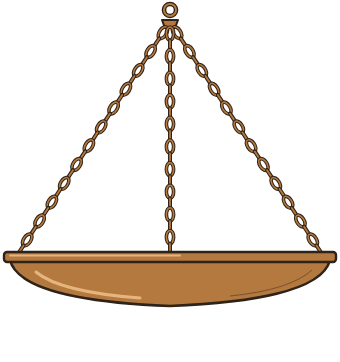
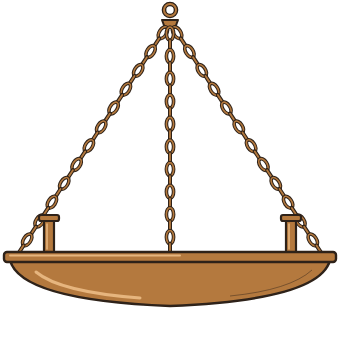
256 补：求饶天平左盘堆放上的金币，托盘坐在两根矮柱上（v4.55）
Claude-Session: https://claude.ai/code/session_018nu316eEhzvyxZFyrEBn2i

Changed region(s): [[0.8235, 0.5773, 0.8824, 0.6989], [0.1176, 0.5773, 0.1765, 0.6989], [0.4412, 0.8204, 0.4706, 0.8508]]

diff --git a/docs/architecture.md b/docs/architecture.md
@@ -1,6 +1,6 @@
 # 背包搜打撤 — 架构设计文档
 
-> 版本：v4.54 ｜ 引擎：Godot 4.7 (Forward+ / Jolt) ｜ 状态：M1～M6、069 进阶难度与猎手、第 7 阶段侵蚀都已落地，第 8 阶段内容扩充进行中（现状见 [status.md](status.md)，变更记录见 16 节）
+> 版本：v4.55 ｜ 引擎：Godot 4.7 (Forward+ / Jolt) ｜ 状态：M1～M6、069 进阶难度与猎手、第 7 阶段侵蚀都已落地，第 8 阶段内容扩充进行中（现状见 [status.md](status.md)，变更记录见 16 节）
 
 ## 0. 游戏概述
 
@@ -4480,6 +4480,7 @@ res://
 | v4.37 | 2026-10-24 | **基地七个页签加平墨图标**（作者 14:49 选乙；UI替换美术切图）：仓库 / 出售 / 集市 / 铁匠铺 / 科技 / 图鉴 / 成就页签字左边各一枚 36×36 墨色剪影（`assets/ui/home/tabs/tab_<页签>.png`，没图只写字）；图字间隔 6 走 `_home_buttons` 主题变体；七个页签一样宽（取 176 与最宽者的较大值，英文约 190） |
 | v4.53 | 2026-10-26 | **256 补：战前屏铜面板不超出画面**（架构 17:05）：空棋盘那句提示（`pre.no_attacker`）与开不了的原因不再另起一行 —— 写在「开战」旗右边的一张便条上（`PANEL_SUMMARY_NOTE`，`PrebattleScreen._why_note`，宽 200，空着不显示；222 照旧不挡开战）；对手六行棋盘时也放得下：两排之间 14 → 4（旗图上沿自带 10 的透明边）。面板高 ≤ 1000 − 16 − 顶端栏（222 测试量这一屏） |
 | v4.54 | 2026-10-26 | **242 补：兵刃变体木桩**（架构 18:16；只加木桩与矩阵列，不动玩法）：全库带 `stamina_cost` 修饰的只有操练 / 军功牌 / 日神 / 熔炉，五路木桩与敌人池都不带，量不到 v4.52「写死耐力消耗吃打折」的偏移。`ArchetypeBuilder.build_variants` 加兵刃一组四路（`group = "blade"`，按 `melee` 流派抽、同种子同一份道具）：`blade` 对照、`blade+drill`（马库斯被动的按件修饰）、`blade+drill+phalera`（金阶军功牌钉在 (3, 2)，包先盖住它的圈、武器先往圈里摆）、`blade+sun`（日神 3 阶以内的开战轴：灵巧 5 层）。木桩格式多两键 `scoped`（`[{tags, mods}]`）与 `axes`（{轴 → 层}），`CalibrationRecorder.compile` 并进 `CompileInput`；`CalibrationRecorder.layout_of` = `RunState.layout_of` + 随身之物（带钉的状态与军功，排在包后面），快照也用它（马库斯的真实快照以前丢了军功牌）。`BalanceMatrix`：极差表不算有 `group` 的路，另出表五「兵刃变体」（变体减对照的胜率差，百分点）。`tools/build_archetypes.gd -- --variants` 只重造这四路，五路那 60 份原文照留（道具库改过，全量重造会换掉 55 份） |
+| v4.55 | 2026-10-26 | **256 补：求饶天平左盘也看得见钱**（UI 替换美术 10-26，起因是游戏测试 v4.53：往左盘放钱只见梁动）：托盘整体上抬 38（`tray_rect` [20, 52, 320, 220]，大小与格子不变），坐在左盘层新画的两根矮铜柱上；柱间按 `ransom_layout.json` 新的 `coin_pile`（cols / base_y / step / full / max / order）堆金币片 `ransom/ransom_coin`（36 × 9）。`BalanceScale.coins`（`RansomScreen._refresh` 设）→ `pile_count()` = ceil(22 × 金币 ÷ 开价)，放了钱至少 1 枚、封顶 24；刚好够时 3 / 4 / 4 / 4 / 4 / 3 共 22 枚，和右盘那摞一样多；先垒中间两摞。托盘上的道具不算进这摞。`coin_rects()` 给测试量（托盘底边在金币顶上面）；后备版式同步 |
 | v4.52 | 2026-10-26 | **256 三个起始角色定稿**（作者 15:48，报告 256 §8.13，表见 [characters.md](characters.md)）：**马库斯** 55 / 65 / 5、体力 5、8 × 6 / 48；删 `merit` / `assault`；随身军功牌 `legion_phalera`（1×1，开局 (3, 2)，内部标签 `signature`：`ItemDatabase.ids()` 与赐福都不收；`GrowthProfile.fuel = honor`，`HonorModule` 听 `battle_finished` 打赢记军功 普通 1 / 精英 3 / 核心 5；`GrowthStage.grant_cells / grant_mods` 改写邻接，铜银 4 / 金 8 / 鎏金桂冠 12 格，武器伤害与急速 +、耐力消耗 − 5/10/15/20%；角标「军功 N」+ 悬浮窗逐阶；一局一清）。**可挪的随身之物**：`FixedItem.movable` → `ItemInstance.set_pinned(on, movable)`（`pin_moves`），`is_anchored()` = 钉死；`GridInventory.keeps(uid)` = 锁住或随身（`InventoryService.move` 跨容器 / `transfer_auto` / 商店卖 / 快捷移动都看它），可以压在包上（`holds_pinned` 的包算锁住，提示 `notice.pin_bag`），随身之物不被顶开；拖出棋盘提示 `notice.pin_stays`；选人页 `shape_board(..., allow_moves = false)` 钉死。**操练**改一局被动：新效果 `tag_mods`（`RunContext.scoped` → `compile_player` 的 `CompileInput.scoped`）给武器 `stamina_cost` −20%，`tag_weight_mult`（`RunContext.weight_pct`）武器重量 −20%（`ItemWeight.total_scaled` / `of_in_scaled`：按件打折、求和后取整；`carry_weight`、开局屏负重、悬浮窗脚注都用它）。**写死的耐力消耗也吃打折**：`ResourceCost` 没有 `amount_stat` 时按 `CombatantRuntime.item_cost_factor`（这件 `stamina_cost` 的乘算 × 灵巧 / 笨拙轴）付，`stamina_per_use` / `StaminaEstimate` 同一套（之前这类武器的灵巧轴、军功牌减耗都不生效）。**布鲁图斯** 85 / 65 / 4、体力 8、9 × 6 / 64，没有技能（删 `wild_born` / `hardy` / `second_wind`；`hardy_guard` 状态留着，熔炉在用）。**安德烈乌斯** 45 / 55 / 4、体力 3、7 × 6 / 48；删 `familiar_paths` / `slippery` / `slip`；**偷袭** `ambush`（`AssaultSkill`，3 次，`RunSkill.rest_recharge` 休息点 +1 不超上限，`show_prebattle` → 战前屏四态平石键「偷袭 ×N」）；**求饶** `ransom`（`RunContext.ransom_mult` 3）：有对手的扣体力都给——普通 / 精英 / 猎手打输，逃跑失败（`NodeEvents.flee_roll` 带上 node / foe 先问 `_offer_ransom`，猎手报自己的战败原因）；核心点、搜索遭遇打输不给；逃跑失败又打输并成一次天平（`pending_ransom.more`，开价相加，不求饶两笔照扣：逃跑那笔原数、打输那笔吃 `loss_discount`）；回放后弹 `RANSOM` 屏：`BalanceScale` 按美术定稿四层图 + `ransom/ransom_layout.json` 摆（梁倾角 ±8°、盘挂钩、左盘上 6 × 3 托盘（格子按托盘那块地缩）、右盘开价牌、石台上金币步进 ±10 与成交 / 不求饶两把平石键）；道具按局内出售价计重；待开价进存档。`NodeEvents.offer_ransom` 只由 GameFlow 打开。**三人共同**：删 `starting_funds`（角色字段、json、导入检查）、`starting_funds_bonus` 效果、`EconomyRules.starting_balance`；「回气」→「耐力回复」（UI、轴名、词表）。美术定稿接上：军功牌五阶、偷袭键四态、偷袭 / 求饶技能图标、天平四层；删五枚旧技能图标。测试 `tests/run/test_characters_256.gd` |
 | v4.51 | 2026-10-26 | **255 补充三：初始三人的短板撤掉**（作者 13:59「我并不认为给每个角色设计短板是必须的……短板是用于改变游玩决策的设定，不要盲目的添加」）：马库斯 `unschooled`、安德烈乌斯 `thin_build`、布鲁图斯 `short_wind` 从角色数据删掉，三个状态定义（json + tres）与效果栏图标一并删（状态不进存档，不用改名表；内容快照不变）。`CharacterDef.flaw` 改选填：导入器不再要求，没有短板的角色卡上不出那一行；有短板的照旧排在技能之后、编进战斗规则。三种打折构件（`heal_cut_tags`、按比例的护甲上限、`regen_cut_below`）留着，测试改用内联状态。美术 13:57 那三枚图标不接（文件留在美术目录） |
 | v4.50 | 2026-10-26 | **255 补充二：开局第二页改两栏**（报告 255 §10.4，架构设计 12:45 定甲）：中栏拆掉，棋盘板 676 + 栏距 36 + 仓库框 764，右沿 1512（≤ 1564）。包架挪进棋盘板、棋盘正下方横排九格一行（`SetupScreen.RACK_COLUMNS`）；带入现金便条钉在仓库木框底部靠右（`SIZE_SHRINK_END`，仓库格子高照 180 补二按剩余高算）；「地上」改成仓库页签列里的一页：`WarehousePages.add_extra / set_extra_tab / show_extra / on_extra`（页签排在已有的页后面、没解锁的页前面，拖着东西停在它上面也切过去，格子那块换成 `GroundLayer`、一样大），只在地上有东西时出现，刚进第二页有东西就先翻到这页；`_allow_drop` 不变。`TextFit` 按最宽那行量多行字。测试 `test_character_select_255.frame_kit_page`（右沿、底沿、七格 / 九格换人两块板不动），`test_character_setup` 地上那段改查页签。另修游戏测试 v4.49：英文下安德烈乌斯 / 布鲁图斯的角色卡 814 高把中栏顶高 —— `CARD_H` 800 → 840，`frame_select_screen` 加一遍英文比三栏。随后换上三枚短板状态图标定稿（美术 13:57：`effects/unschooled / thin_build / short_wind`，56 px 白线稿按减益红着色，替掉借来的占位） |
